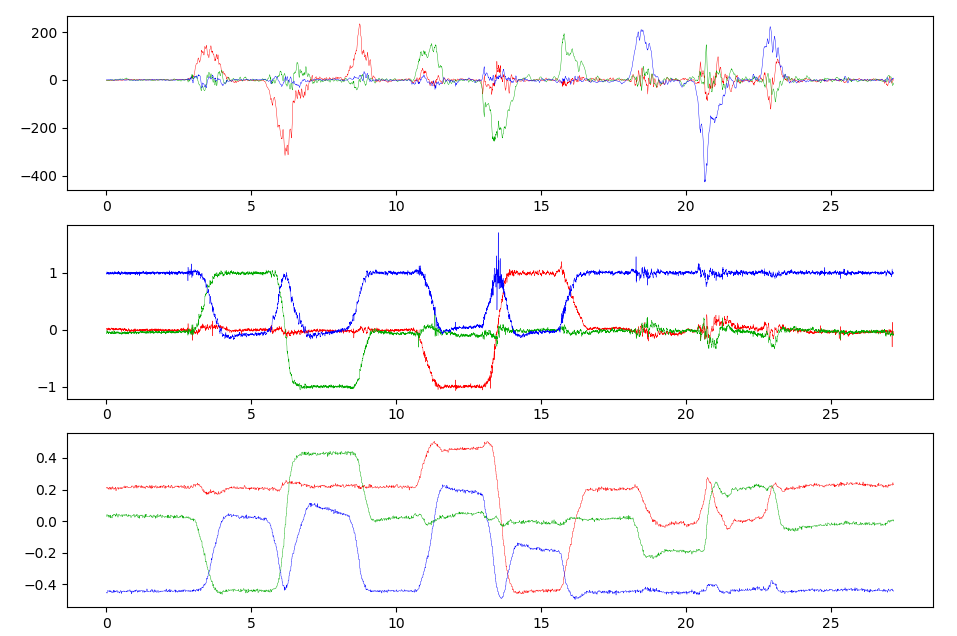
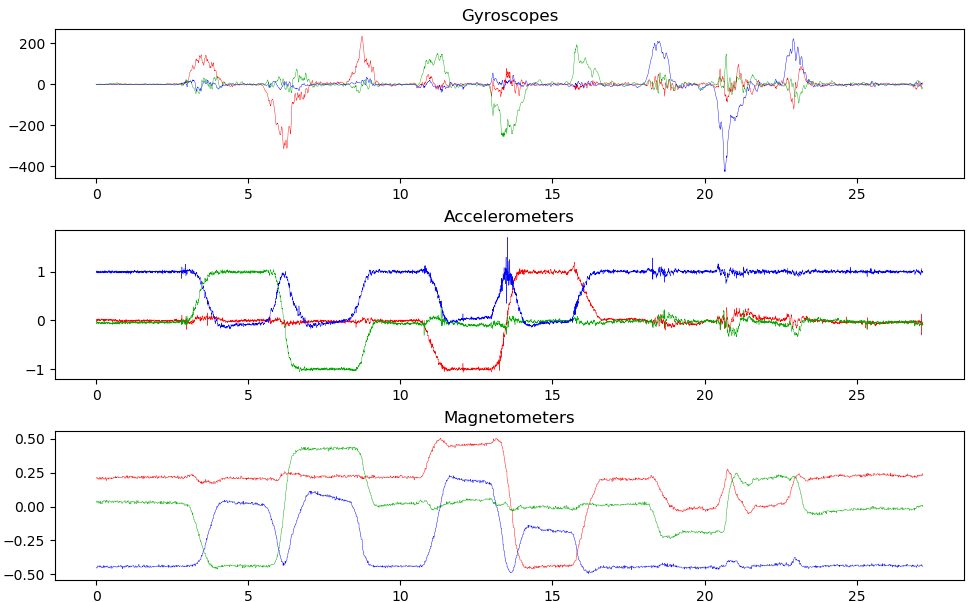
Improve README examples.

diff --git a/README.md b/README.md
@@ -60,10 +60,19 @@ array([[ 0.76811067,  0.3546719 ,  0.53311709],
 
 ```py
 >>> data = ahrs.utils.io.load("ExampleData.mat")
->>> ahrs.utils.plot_sensors(data.gyr, data.acc, data.mag)
+>>> ahrs.utils.plot_sensors(data.gyr)
 ```
 
-![Sensor Plotting](plot_sensors_screenshot.png)
+![Simple Sensor Plotting](plot_sensors_simple_screenshot.png)
+
+It is possible to render more sensors at different subplots, and even titling them.
+
+```py
+>>> ahrs.utils.plot_sensors(data.gyr, data.acc, data.mag,
+        x_axis=data.time, subtitles=["Gyroscopes", "Accelerometers", "Magnetometers"])
+```
+
+![Full Sensor Plotting](plot_sensors_screenshot.png)
 
 If you want to use the sensor data to estimate the attitude, use the `filters` module that includes various (more coming) algorithms for it.
 
@@ -72,19 +81,21 @@ If you want to use the sensor data to estimate the attitude, use the `filters` m
 >>> Q = np.tile([1., 0., 0., 0.], (data.num_samples, 1)) # Allocate an array for all quaternions
 >>> d2g = ahrs.common.DEG2RAD   # Constant to convert degrees to radians
 >>> for t in range(1, data.num_samples):
-...     Q[t] = madgwick.updateMARG(d2g*data.gyr[t], data.acc[t], data.mag[t], Q[t-1])
+...     Q[t] = madgwick.updateMARG(Q[t-1], d2g*data.gyr[t], data.acc[t], data.mag[t])
 ...
 >>> ahrs.utils.plot_quaternions(Q)
 ```
 
 ![Quaternion Plotting](plot_quaternions_screenshot.png)
 
-It also works by simply passing the data to a desired filter, and it will automatically compute the quaternion with the given parameters.
+Also works by simply passing the data to a desired filter, and it will automatically estimate the quaternions with the given parameters.
 
 ```py
->>> filtered = ahrs.filters.Madgwick(data, beta=0.01, frequency=freq)
->>> ahrs.utils.plot_quaternions(filtered.Q)
+>>> estimation = ahrs.filters.Madgwick(data, beta=0.1, frequency=100.0)
+>>> estimation.Q.shape
+(6959, 4)
 ```
+
 
 ## Documentation
 
